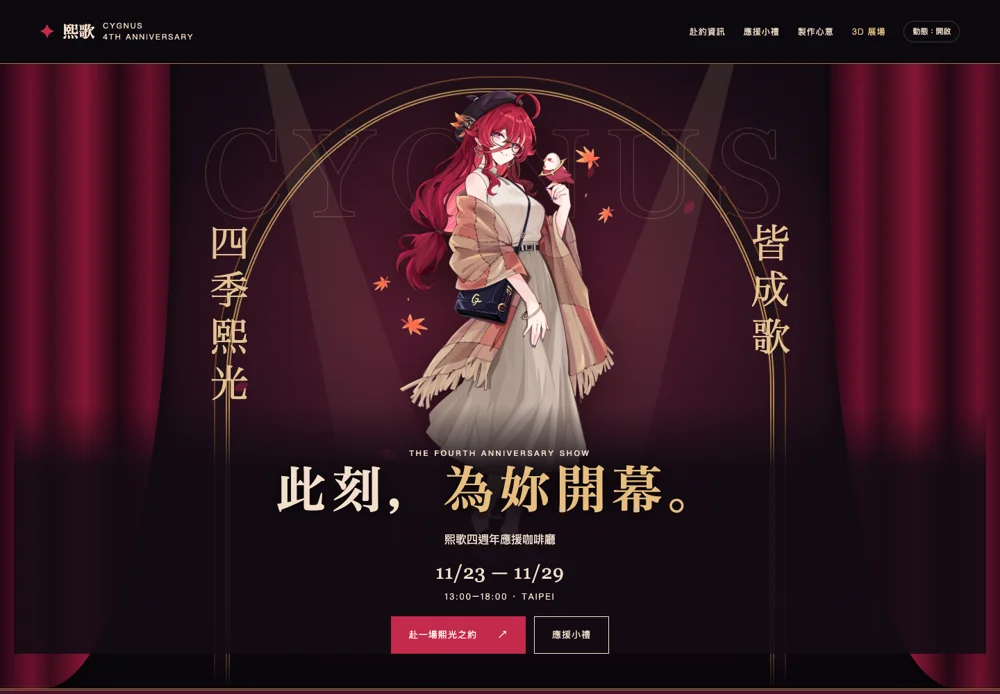
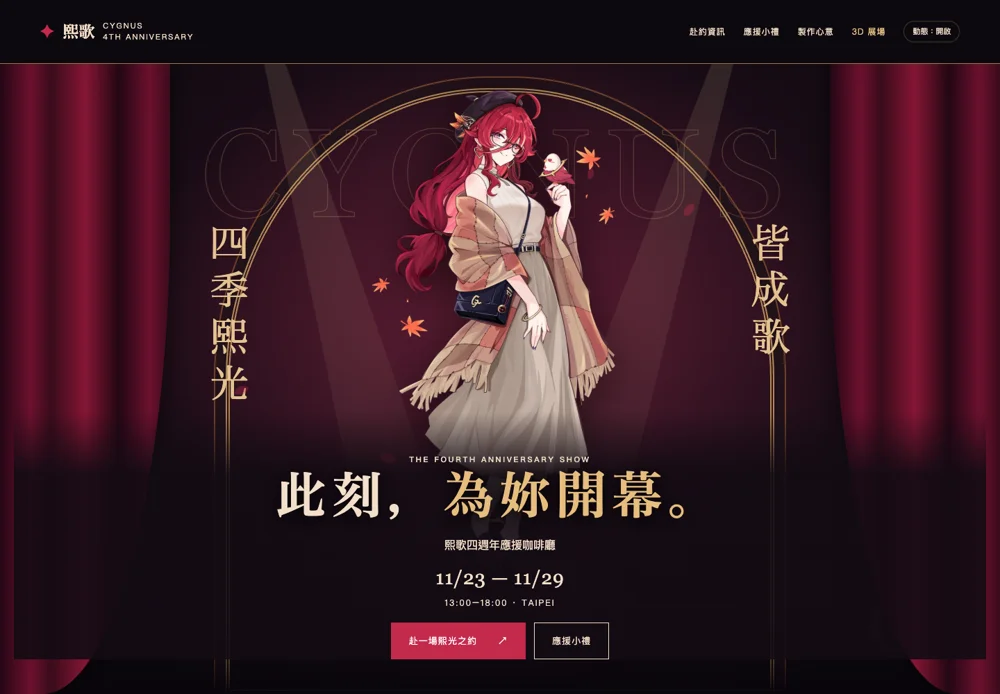
feat: 調整首屏高度與捲動固定導覽並隱藏設計總覽入口

diff --git a/index.html b/index.html
@@ -1,1 +1,1 @@
-<!doctype html><html lang="zh-Hant"><head><meta charset="utf-8"><meta name="viewport" content="width=device-width,initial-scale=1"><meta name="description" content="熙歌四週年應援咖啡廳，11/23–11/29，Little Donkey Cafe 小驢館。#四季熙光皆成歌"><meta name="theme-color" content="#130b13"><title>熙歌四週年｜緋幕手帖</title><link rel="stylesheet" href="shared/base.css"><link rel="stylesheet" href="versions/11-theatre-scrapbook/style.css"></head><body data-version="11"><a class="skip" href="#main">跳至主要內容</a><header class="site-header"><a class="brand" href="#main" aria-label="熙歌四週年首頁"><span class="brand-mark" aria-hidden="true">✦</span><b>熙歌</b><em>CYGNUS<br>4TH ANNIVERSARY</em></a><nav aria-label="主要導覽"><a href="#event">赴約資訊</a><a href="#gifts">應援小禮</a><a href="#credits">製作心意</a><a class="exhibition-link" href="cafe/">3D 展場</a><button class="motion-toggle" type="button" aria-pressed="true">動態：開啟</button></nav></header><main id="main"><section class="hero"><div class="stage-arch ornament"></div><div class="curtain left ornament"></div><div class="curtain right ornament"></div><div class="spot spot-a ornament"></div><div class="spot spot-b ornament"></div><div class="stage-word ornament">CYGNUS</div><div class="stage-side left-type">四季熙光</div><div class="stage-side right-type">皆成歌</div><figure class="stage-character" data-parallax="-55"><img class="" src="assets/web/portrait.webp" alt="熙歌秋日服裝全身立繪" fetchpriority="high" width="980" height="1400"></figure><div class="hero-copy"><span class="eyebrow">THE FOURTH ANNIVERSARY SHOW</span><h1>此刻，<em>為妳開幕。</em></h1><p>熙歌四週年應援咖啡廳</p><div class="hero-date">11/23 <span>—</span> 11/29<small>13:00–18:00 · TAIPEI</small></div><div class="hero-actions"><a class="button solid" href="#event">赴一場熙光之約 <span>↗</span></a><a class="button" href="#gifts">應援小禮</a></div></div><div class="stage-floor ornament"></div><div class="stage-number ornament">04</div><div class="petals" aria-hidden="true"><i class="petal" style="--x:3%;--size:8px"></i><i class="petal" style="--x:14%;--size:12px"></i><i class="petal" style="--x:25%;--size:16px"></i><i class="petal" style="--x:36%;--size:20px"></i><i class="petal" style="--x:47%;--size:8px"></i><i class="petal" style="--x:58%;--size:12px"></i><i class="petal" style="--x:69%;--size:16px"></i></div></section><div class="marquee" aria-hidden="true"><div class="marquee-track"><span>♡ 把喜歡貼進日常 ♡ FOUR SEASONS WITH CYGNUS ♡</span><span>♡ 把喜歡貼進日常 ♡ FOUR SEASONS WITH CYGNUS ♡</span><span>♡ 把喜歡貼進日常 ♡ FOUR SEASONS WITH CYGNUS ♡</span><span>♡ 把喜歡貼進日常 ♡ FOUR SEASONS WITH CYGNUS ♡</span><span>♡ 把喜歡貼進日常 ♡ FOUR SEASONS WITH CYGNUS ♡</span><span>♡ 把喜歡貼進日常 ♡ FOUR SEASONS WITH CYGNUS ♡</span><span>♡ 把喜歡貼進日常 ♡ FOUR SEASONS WITH CYGNUS ♡</span><span>♡ 把喜歡貼進日常 ♡ FOUR SEASONS WITH CYGNUS ♡</span></div></div><section class="section event" id="event"><div class="section-heading" data-reveal><span class="eyebrow">OUR ANNIVERSARY RENDEZVOUS</span><h2>這一頁，<br class="mobile-break">記得留給熙歌。</h2></div><div class="event-grid"><dl class="event-facts" data-reveal><div class="fact"><dt>活動名稱</dt><dd>熙歌四週年應援咖啡廳</dd></div><div class="fact"><dt>活動日期</dt><dd><strong>11/23 — 11/29</strong></dd></div><div class="fact"><dt>營業時間</dt><dd><strong>13:00 — 18:00</strong><small>下午 1 點至 6 點</small></dd></div><div class="fact"><dt>活動店家</dt><dd>Little Donkey Cafe 小驢館</dd></div><div class="fact"><dt>入店低消</dt><dd>飲品／甜品 擇一</dd></div></dl><aside class="access" data-reveal><span class="eyebrow">FIND YOUR WAY</span><h3>在巷弄裡，找到熙光。</h3><p>106臺北市大安區敦煌里<br>信義路四段265巷12弄21號</p><div class="route-line"><span class="station">M</span><span>捷運信義安和站</span><span class="route-dots"></span><span>步行 5 分鐘</span></div><a class="button" href="https://www.google.com/maps/search/?api=1&query=106臺北市大安區敦煌里信義路四段265巷12弄21號" target="_blank" rel="noopener noreferrer">開啟地圖 <span>↗</span></a></aside></div><aside class="exhibition-invite" data-reveal><a class="exhibition-photo" href="cafe/" aria-label="進入小驢館 3D 展場"><img src="cafe/assets/preview.webp" alt="小驢館空間模型：窗邊座位、中央長桌與後方投影幕。" loading="lazy" width="1400" height="1100"><span>一張照片，走進一個空間。</span></a><div class="exhibition-copy"><span class="exhibition-stamp">赴約前的小旅行</span><h3>先走進，<br>我們相遇的地方。</h3><p>從窗邊到中央長桌，換個角度看看小驢館。獨立的 3D 展場提供旋轉、縮放與五種空間視角。</p><a class="button solid" href="cafe/">進入 3D 展場 <span aria-hidden="true">↗</span></a><small>公開照片重建草案，配置與尺寸尚未經現場確認。</small></div></aside></section><section class="section story" id="story"><div class="story-album"><figure class="story-snapshot" data-reveal><img src="assets/web/keyvisual.webp" alt="熙歌戴著眼鏡，在咖啡廳端起咖啡的活動主視覺" loading="lazy" width="2000" height="1403"><figcaption>一杯咖啡，收藏四季的熙光。</figcaption></figure><figure class="story-photo" data-reveal><img class="" src="assets/web/picnic.webp" alt="熙歌四週年活動插畫" loading="lazy" width="2000" height="710"><figcaption>將這個午後，妥善收藏。</figcaption></figure></div><div class="story-text" data-reveal><span class="eyebrow">FOR CYGNUS · WITH LOVE</span><h2>把今天，<br>貼在最喜歡的那頁。</h2><p>四季走過，喜歡依然。<br>在一個有咖啡香的午後，<br>和同樣喜歡熙歌的你，<br>一起為這段四週年的旅程留下紀念。</p><p class="signature">Every season, a song.</p><div class="program"><span>現場周邊發放</span><span>投影機播放</span><span>過往場次周邊擺設</span></div></div></section><section class="section gifts" id="gifts"><div class="section-heading" data-reveal><span class="eyebrow">LITTLE GIFTS, LOTS OF LOVE</span><h2>手帳裡的小小收藏。</h2></div><div class="gifts-layout"><figure class="gifts-mascot" data-reveal><img class="" src="assets/web/chibi-autumn.webp" alt="熙歌四週年 Q 版插畫" loading="lazy" width="650" height="650"><figcaption>四週年限定的心意</figcaption></figure><div><div class="gift-rules"><article class="gift-rule" data-reveal><span class="eyebrow">PAPER GIFTS</span><h3>紙類周邊</h3><div class="quantity">200<span>各品項數量</span></div><p>拿取資格：不限</p></article><article class="gift-rule" data-reveal><span class="eyebrow">SPECIAL GIFTS</span><h3>非紙類周邊</h3><div class="quantity">80<span>各品項數量</span></div><p>拿取資格：訂閱熙歌 YT 頻道</p><a class="text-link" href="https://youtube.com/@cygnusxdfp" target="_blank" rel="noopener noreferrer">前往熙歌 YouTube ↗</a></article></div><p class="pending">周邊照片將於後續公布。此處角色插畫為活動視覺，並非周邊商品照片。</p></div></div></section><section class="section reminders"><div class="faq"><div class="section-heading" data-reveal><span class="eyebrow">BEFORE WE MEET</span><h2>赴約前的小提醒</h2></div><details><summary>需要符合什麼低消？</summary><p>飲品／甜品擇一，即為本次提供的入店低消資訊。</p></details><details><summary>現場有哪些應援安排？</summary><p>現場將發放周邊，使用投影機播放內容，並擺設過往熙歌場次的周邊。</p></details><details><summary>周邊要如何拿取？</summary><p>紙類拿取資格不限，各品項數量 200；非紙類需訂閱熙歌 YouTube 頻道，各品項數量 80。周邊照片後續公布。</p></details></div></section><section class="section credits" id="credits"><div data-reveal><span class="eyebrow">MADE POSSIBLE WITH LOVE</span><h2>一起，讓熙光成歌。</h2><p>工作人員與繪師的完整名單將於後續公布。<br>謝謝每一份讓這場相遇成真的心意。</p></div><div class="socials" data-reveal><a href="https://x.com/cyg_studio_fan" target="_blank" rel="noopener noreferrer">應援工作室 X ↗</a><a href="https://x.com/cygnusxdfp" target="_blank" rel="noopener noreferrer">熙歌 X ↗</a><a href="https://youtube.com/@cygnusxdfp" target="_blank" rel="noopener noreferrer">熙歌 YouTube ↗</a></div></section><section class="closing"><p class="closing-title">下一個四季，<br>也想和你一起。</p><p class="tag">#四季熙光皆成歌</p><button class="copy-tag" type="button">複製活動 TAG</button><p class="status-message" role="status" aria-live="polite"></p></section><footer class="site-footer"><span>CYGNUS 4TH ANNIVERSARY · 熙歌四週年應援咖啡廳</span><a href="designs/">回到設計總覽 ↗</a></footer></main><script src="vendor/gsap.min.js"></script><script src="vendor/ScrollTrigger.min.js"></script><script type="module" src="versions/11-theatre-scrapbook/script.js"></script></body></html>
+<!doctype html><html lang="zh-Hant"><head><meta charset="utf-8"><meta name="viewport" content="width=device-width,initial-scale=1"><meta name="description" content="熙歌四週年應援咖啡廳，11/23–11/29，Little Donkey Cafe 小驢館。#四季熙光皆成歌"><meta name="theme-color" content="#130b13"><title>熙歌四週年｜緋幕手帖</title><link rel="stylesheet" href="shared/base.css"><link rel="stylesheet" href="versions/11-theatre-scrapbook/style.css"></head><body data-version="11"><a class="skip" href="#main">跳至主要內容</a><div class="header-slot"><header class="site-header"><a class="brand" href="#main" aria-label="熙歌四週年首頁"><span class="brand-mark" aria-hidden="true">✦</span><b>熙歌</b><em>CYGNUS<br>4TH ANNIVERSARY</em></a><nav aria-label="主要導覽"><a href="#event">赴約資訊</a><a href="#gifts">應援小禮</a><a href="#credits">製作心意</a><a class="exhibition-link" href="cafe/">3D 展場</a><button class="motion-toggle" type="button" aria-pressed="true">動態：開啟</button></nav></header></div><main id="main"><section class="hero"><div class="stage-arch ornament"></div><div class="curtain left ornament"></div><div class="curtain right ornament"></div><div class="spot spot-a ornament"></div><div class="spot spot-b ornament"></div><div class="stage-word ornament">CYGNUS</div><div class="stage-side left-type">四季熙光</div><div class="stage-side right-type">皆成歌</div><figure class="stage-character" data-parallax="-55"><img class="" src="assets/web/portrait.webp" alt="熙歌秋日服裝全身立繪" fetchpriority="high" width="980" height="1400"></figure><div class="hero-copy"><span class="eyebrow">THE FOURTH ANNIVERSARY SHOW</span><h1>此刻，<em>為妳開幕。</em></h1><p>熙歌四週年應援咖啡廳</p><div class="hero-date">11/23 <span>—</span> 11/29<small>13:00–18:00 · TAIPEI</small></div><div class="hero-actions"><a class="button solid" href="#event">赴一場熙光之約 <span>↗</span></a><a class="button" href="#gifts">應援小禮</a></div></div><div class="stage-floor ornament"></div><div class="stage-number ornament">04</div><div class="petals" aria-hidden="true"><i class="petal" style="--x:3%;--size:8px"></i><i class="petal" style="--x:14%;--size:12px"></i><i class="petal" style="--x:25%;--size:16px"></i><i class="petal" style="--x:36%;--size:20px"></i><i class="petal" style="--x:47%;--size:8px"></i><i class="petal" style="--x:58%;--size:12px"></i><i class="petal" style="--x:69%;--size:16px"></i></div></section><div class="marquee" aria-hidden="true"><div class="marquee-track"><span>♡ 把喜歡貼進日常 ♡ FOUR SEASONS WITH CYGNUS ♡</span><span>♡ 把喜歡貼進日常 ♡ FOUR SEASONS WITH CYGNUS ♡</span><span>♡ 把喜歡貼進日常 ♡ FOUR SEASONS WITH CYGNUS ♡</span><span>♡ 把喜歡貼進日常 ♡ FOUR SEASONS WITH CYGNUS ♡</span><span>♡ 把喜歡貼進日常 ♡ FOUR SEASONS WITH CYGNUS ♡</span><span>♡ 把喜歡貼進日常 ♡ FOUR SEASONS WITH CYGNUS ♡</span><span>♡ 把喜歡貼進日常 ♡ FOUR SEASONS WITH CYGNUS ♡</span><span>♡ 把喜歡貼進日常 ♡ FOUR SEASONS WITH CYGNUS ♡</span></div></div><section class="section event" id="event"><div class="section-heading" data-reveal><span class="eyebrow">OUR ANNIVERSARY RENDEZVOUS</span><h2>這一頁，<br class="mobile-break">記得留給熙歌。</h2></div><div class="event-grid"><dl class="event-facts" data-reveal><div class="fact"><dt>活動名稱</dt><dd>熙歌四週年應援咖啡廳</dd></div><div class="fact"><dt>活動日期</dt><dd><strong>11/23 — 11/29</strong></dd></div><div class="fact"><dt>營業時間</dt><dd><strong>13:00 — 18:00</strong><small>下午 1 點至 6 點</small></dd></div><div class="fact"><dt>活動店家</dt><dd>Little Donkey Cafe 小驢館</dd></div><div class="fact"><dt>入店低消</dt><dd>飲品／甜品 擇一</dd></div></dl><aside class="access" data-reveal><span class="eyebrow">FIND YOUR WAY</span><h3>在巷弄裡，找到熙光。</h3><p>106臺北市大安區敦煌里<br>信義路四段265巷12弄21號</p><div class="route-line"><span class="station">M</span><span>捷運信義安和站</span><span class="route-dots"></span><span>步行 5 分鐘</span></div><a class="button" href="https://www.google.com/maps/search/?api=1&query=106臺北市大安區敦煌里信義路四段265巷12弄21號" target="_blank" rel="noopener noreferrer">開啟地圖 <span>↗</span></a></aside></div><aside class="exhibition-invite" data-reveal><a class="exhibition-photo" href="cafe/" aria-label="進入小驢館 3D 展場"><img src="cafe/assets/preview.webp" alt="小驢館空間模型：窗邊座位、中央長桌與後方投影幕。" loading="lazy" width="1400" height="1100"><span>一張照片，走進一個空間。</span></a><div class="exhibition-copy"><span class="exhibition-stamp">赴約前的小旅行</span><h3>先走進，<br>我們相遇的地方。</h3><p>從窗邊到中央長桌，換個角度看看小驢館。獨立的 3D 展場提供旋轉、縮放與五種空間視角。</p><a class="button solid" href="cafe/">進入 3D 展場 <span aria-hidden="true">↗</span></a><small>公開照片重建草案，配置與尺寸尚未經現場確認。</small></div></aside></section><section class="section story" id="story"><div class="story-album"><figure class="story-snapshot" data-reveal><img src="assets/web/keyvisual.webp" alt="熙歌戴著眼鏡，在咖啡廳端起咖啡的活動主視覺" loading="lazy" width="2000" height="1403"><figcaption>一杯咖啡，收藏四季的熙光。</figcaption></figure><figure class="story-photo" data-reveal><img class="" src="assets/web/picnic.webp" alt="熙歌四週年活動插畫" loading="lazy" width="2000" height="710"><figcaption>將這個午後，妥善收藏。</figcaption></figure></div><div class="story-text" data-reveal><span class="eyebrow">FOR CYGNUS · WITH LOVE</span><h2>把今天，<br>貼在最喜歡的那頁。</h2><p>四季走過，喜歡依然。<br>在一個有咖啡香的午後，<br>和同樣喜歡熙歌的你，<br>一起為這段四週年的旅程留下紀念。</p><p class="signature">Every season, a song.</p><div class="program"><span>現場周邊發放</span><span>投影機播放</span><span>過往場次周邊擺設</span></div></div></section><section class="section gifts" id="gifts"><div class="section-heading" data-reveal><span class="eyebrow">LITTLE GIFTS, LOTS OF LOVE</span><h2>手帳裡的小小收藏。</h2></div><div class="gifts-layout"><figure class="gifts-mascot" data-reveal><img class="" src="assets/web/chibi-autumn.webp" alt="熙歌四週年 Q 版插畫" loading="lazy" width="650" height="650"><figcaption>四週年限定的心意</figcaption></figure><div><div class="gift-rules"><article class="gift-rule" data-reveal><span class="eyebrow">PAPER GIFTS</span><h3>紙類周邊</h3><div class="quantity">200<span>各品項數量</span></div><p>拿取資格：不限</p></article><article class="gift-rule" data-reveal><span class="eyebrow">SPECIAL GIFTS</span><h3>非紙類周邊</h3><div class="quantity">80<span>各品項數量</span></div><p>拿取資格：訂閱熙歌 YT 頻道</p><a class="text-link" href="https://youtube.com/@cygnusxdfp" target="_blank" rel="noopener noreferrer">前往熙歌 YouTube ↗</a></article></div><p class="pending">周邊照片將於後續公布。此處角色插畫為活動視覺，並非周邊商品照片。</p></div></div></section><section class="section reminders"><div class="faq"><div class="section-heading" data-reveal><span class="eyebrow">BEFORE WE MEET</span><h2>赴約前的小提醒</h2></div><details><summary>需要符合什麼低消？</summary><p>飲品／甜品擇一，即為本次提供的入店低消資訊。</p></details><details><summary>現場有哪些應援安排？</summary><p>現場將發放周邊，使用投影機播放內容，並擺設過往熙歌場次的周邊。</p></details><details><summary>周邊要如何拿取？</summary><p>紙類拿取資格不限，各品項數量 200；非紙類需訂閱熙歌 YouTube 頻道，各品項數量 80。周邊照片後續公布。</p></details></div></section><section class="section credits" id="credits"><div data-reveal><span class="eyebrow">MADE POSSIBLE WITH LOVE</span><h2>一起，讓熙光成歌。</h2><p>工作人員與繪師的完整名單將於後續公布。<br>謝謝每一份讓這場相遇成真的心意。</p></div><div class="socials" data-reveal><a href="https://x.com/cyg_studio_fan" target="_blank" rel="noopener noreferrer">應援工作室 X ↗</a><a href="https://x.com/cygnusxdfp" target="_blank" rel="noopener noreferrer">熙歌 X ↗</a><a href="https://youtube.com/@cygnusxdfp" target="_blank" rel="noopener noreferrer">熙歌 YouTube ↗</a></div></section><section class="closing"><p class="closing-title">下一個四季，<br>也想和你一起。</p><p class="tag">#四季熙光皆成歌</p><button class="copy-tag" type="button">複製活動 TAG</button><p class="status-message" role="status" aria-live="polite"></p></section><footer class="site-footer"><span>CYGNUS 4TH ANNIVERSARY · 熙歌四週年應援咖啡廳</span></footer></main><script src="vendor/gsap.min.js"></script><script src="vendor/ScrollTrigger.min.js"></script><script type="module" src="versions/11-theatre-scrapbook/script.js"></script></body></html>

diff --git a/versions/11-theatre-scrapbook/style.css b/versions/11-theatre-scrapbook/style.css
@@ -13,9 +13,10 @@ body {
 .section-heading h2 { font-size: clamp(30px, 3.7vw, 52px); }
 .section h2, .access h3, .site-footer > span { text-wrap: balance; }
 .mobile-break { display: none; }
-.site-header{background:#0d090e;border-bottom:1px solid #9d7845}.hero{height:900px;display:flex;align-items:flex-end;justify-content:center;padding:0 20px 50px;background:radial-gradient(ellipse at 50% 40%,#6b203a 0,#190c16 52%,#0d0910 80%)}.hero-copy{text-align:center;background:linear-gradient(transparent,#130b13e8 25%);padding:60px 100px 0;width:100%}.hero h1{font-size:clamp(45px,5vw,74px);letter-spacing:.12em;text-shadow:0 3px 30px #000}.hero h1 em{font-style:normal;color:#e6bd7e}.hero-copy>p{margin:16px auto}.hero-date{font-size:28px}.hero-actions{justify-content:center;margin-top:20px}.stage-character{position:absolute;width:530px;height:740px;left:50%;transform:translateX(-50%);top:10px;z-index:3}.stage-character img{height:100%;width:100%;object-fit:contain;filter:drop-shadow(0 10px 35px #0009)}.stage-arch{position:absolute;width:790px;height:900px;border:6px double #b28a55;border-radius:48% 48% 0 0;top:35px;left:50%;transform:translateX(-50%);box-shadow:0 0 0 15px #211119,0 0 0 17px #71422a}.stage-word{position:absolute;top:55px;width:100%;text-align:center;font:clamp(65px,13vw,180px) Georgia;letter-spacing:.12em;-webkit-text-stroke:1px #ba886766;color:transparent}.stage-side{writing-mode:vertical-rl;position:absolute;top:230px;font:56px var(--serif);letter-spacing:.2em;color:#e4c391;z-index:4}.left-type{left:20%}.right-type{right:20%}.curtain{position:absolute;top:-2%;bottom:0;width:17%;background:repeating-linear-gradient(90deg,#240615,#6c112e 18%,#390b1b 30%,#851635 50%,#220712 70%);z-index:5;box-shadow:0 10px 35px #0008}.curtain.left{left:0;border-radius:0 0 75% 0}.curtain.right{right:0;border-radius:0 0 0 75%}.spot{position:absolute;top:-100px;width:160px;height:900px;background:linear-gradient(#ffdba521,transparent);transform-origin:top;z-index:2;pointer-events:none;clip-path:polygon(45% 0,55% 0,100% 100%,0 100%)}.spot-a{left:20%;transform:rotate(-25deg)}.spot-b{right:20%;transform:rotate(25deg)}.stage-number{position:absolute;bottom:30px;right:30px;font:140px Georgia;color:#b3865740}.stage-floor{position:absolute;bottom:0;left:0;width:100%;height:120px;background:linear-gradient(transparent,#09050b);z-index:2}
+.site-header{background:#0d090e;border-bottom:1px solid #9d7845}.hero{height:calc(100dvh - var(--header-height, 92px));min-height:640px;display:flex;align-items:flex-end;justify-content:center;padding:0 20px 50px;background:radial-gradient(ellipse at 50% 40%,#6b203a 0,#190c16 52%,#0d0910 80%)}.hero-copy{text-align:center;background:linear-gradient(transparent,#130b13e8 25%);padding:60px 100px 0;width:100%}.hero h1{font-size:clamp(45px,5vw,74px);letter-spacing:.12em;text-shadow:0 3px 30px #000}.hero h1 em{font-style:normal;color:#e6bd7e}.hero-copy>p{margin:16px auto}.hero-date{font-size:28px}.hero-actions{justify-content:center;margin-top:20px}.stage-character{position:absolute;width:min(60vw,680px);height:82%;max-height:900px;left:50%;transform:translateX(-50%);top:10px;z-index:3}.stage-character img{height:100%;width:100%;object-fit:contain;filter:drop-shadow(0 10px 35px #0009)}.stage-arch{position:absolute;width:790px;height:calc(100% - 35px);border:6px double #b28a55;border-radius:48% 48% 0 0;top:35px;left:50%;transform:translateX(-50%);box-shadow:0 0 0 15px #211119,0 0 0 17px #71422a}.stage-word{position:absolute;top:55px;width:100%;text-align:center;font:clamp(65px,13vw,180px) Georgia;letter-spacing:.12em;-webkit-text-stroke:1px #ba886766;color:transparent}.stage-side{writing-mode:vertical-rl;position:absolute;top:230px;font:56px var(--serif);letter-spacing:.2em;color:#e4c391;z-index:4}.left-type{left:20%}.right-type{right:20%}.curtain{position:absolute;top:-2%;bottom:0;width:17%;background:repeating-linear-gradient(90deg,#240615,#6c112e 18%,#390b1b 30%,#851635 50%,#220712 70%);z-index:5;box-shadow:0 10px 35px #0008}.curtain.left{left:0;border-radius:0 0 75% 0}.curtain.right{right:0;border-radius:0 0 0 75%}.spot{position:absolute;top:-100px;width:160px;height:120%;background:linear-gradient(#ffdba521,transparent);transform-origin:top;z-index:2;pointer-events:none;clip-path:polygon(45% 0,55% 0,100% 100%,0 100%)}.spot-a{left:20%;transform:rotate(-25deg)}.spot-b{right:20%;transform:rotate(25deg)}.stage-number{position:absolute;bottom:30px;right:30px;font:140px Georgia;color:#b3865740}.stage-floor{position:absolute;bottom:0;left:0;width:100%;height:120px;background:linear-gradient(transparent,#09050b);z-index:2}
 
 .site-header .exhibition-link { color: #f0c889; }
+.site-header nav a:nth-child(3) { display: block; }
 .marquee {
   color: #ead0a1;
   background: #481329;
@@ -170,7 +171,7 @@ body {
 .copy-tag:hover { background: #481329; }
 .status-message { margin-top: 10px !important; }
 .site-footer { background: #0d090e; color: #dbc6b4; border-color: #9d784566; }
-.site-footer a { flex-shrink: 0; font-size: 12px; }
+
 
 @media (min-width: 761px) and (max-width: 1050px) {
   .hero-copy { padding-inline: 30px; }
@@ -189,7 +190,7 @@ body {
   .gift-rule { padding: 26px 20px; }
   .credits { grid-template-columns: 1fr; gap: 28px; }
 }
-@media(max-width:760px){.hero{height:920px;padding:0 10px 30px}.stage-character{width:330px;height:580px;top:35px}.stage-arch{width:330px;height:850px;top:25px}.curtain{width:8%}.stage-side{top:150px;font-size:29px}.left-type{left:8%}.right-type{right:8%}.stage-word{top:60px;font-size:57px}.hero-copy{padding:40px 14px 0}.hero h1{font-size:35px}.hero h1 em{display:block;margin-top:15px}.hero-date{font-size:27px}.stage-number{font-size:100px;opacity:.3}.hero .eyebrow{font-size:8px;letter-spacing:.1em}.event-grid{grid-template-columns:1fr}}
+@media(max-width:760px){.hero{min-height:720px;padding:0 10px 24px}.stage-character{width:min(330px,92%);height:78%;max-height:580px;top:20px}.stage-arch{width:330px;height:calc(100% - 25px);top:25px}.curtain{width:8%}.stage-side{top:150px;font-size:29px}.left-type{left:8%}.right-type{right:8%}.stage-word{top:60px;font-size:57px}.hero-copy{padding:30px 14px 0}.hero h1{font-size:32px}.hero h1 em{display:block;margin-top:10px}.hero-date{font-size:27px}.stage-number{font-size:100px;opacity:.3}.hero .eyebrow{font-size:8px;letter-spacing:.1em}.event-grid{grid-template-columns:1fr}}
 
 @media (max-width: 760px) {
   .section { padding: 58px 26px; }
@@ -246,4 +247,32 @@ body {
   .story-text h2 { font-size: 24px; }
   .story-album figcaption { letter-spacing: 0; }
   .faq { padding-inline: 20px; }
+}
+
+/* Keep the expanded header's space when the compact navigation is fixed. */
+html { scroll-padding-top: calc(var(--compact-header-height, 72px) + 18px); }
+.header-slot { height: var(--header-height, 92px); }
+.site-header.is-compact {
+  position: fixed;
+  inset: 0 0 auto;
+  z-index: 50;
+  padding-block: 10px;
+  box-shadow: 0 8px 24px #09050b50;
+}
+.site-header.is-compact .brand { gap: 8px; }
+.site-header.is-compact .brand-mark { font-size: 18px; }
+.site-header.is-compact .brand b { font-size: 20px; }
+.site-header.is-compact .brand em { font-size: 9px; line-height: 1.4; }
+@media (max-width: 760px) {
+  .hero-copy > p { margin: 12px auto; }
+  .hero-actions .button { padding: 12px 14px; gap: 14px; font-size: 12px; }
+}
+@media (max-width: 600px) {
+  .header-slot { height: var(--header-height, 105px); }
+  .site-header.is-compact { padding: 8px 16px; }
+  .site-header.is-compact .brand b { font-size: 18px; }
+  .site-header.is-compact .brand-mark { font-size: 16px; }
+  .site-header.is-compact .brand em { display: none; }
+  .site-header.is-compact nav { margin-top: 6px; }
+  .site-header.is-compact .motion-toggle { top: 8px; }
 }

diff --git a/cafe/index.html b/cafe/index.html
@@ -39,7 +39,7 @@
       <div class="light-control"><label for="daylight">窗光</label><input id="daylight" type="range" min="0.4" max="1.4" step="0.1" value="1" disabled><span aria-hidden="true">☀</span></div>
       <label class="quality">畫質<select id="quality" disabled><option value="balanced">均衡</option><option value="light">省電</option></select></label>
     </section>
-    <footer><a href="../designs/">所有設計版本</a><p>臺北市大安區信義路四段 265 巷 12 弄 21 號</p><a href="assets/little-donkey.glb" download>下載模型 .glb</a><span id="model-status" role="status">準備模型中</span></footer>
+    <footer><p>臺北市大安區信義路四段 265 巷 12 弄 21 號</p><a href="assets/little-donkey.glb" download>下載模型 .glb</a><span id="model-status" role="status">準備模型中</span></footer>
   </main>
   <dialog id="research-dialog" aria-labelledby="research-title"><button id="close-research" class="dialog-close" aria-label="關閉研究說明">✕</button><p class="dialog-kicker">這個空間怎麼來的</p><h2 id="research-title">依據、推估，<br>與還沒看見的地方。</h2><p>這是照片參考建模草案。沒有實測平面圖，也沒有將照片直接掃描成精準模型。</p><div class="evidence-section"><h3>主要參考：場租空間照片</h3><p>中央長桌、右側木長凳與白磚半牆、左側黑窗框、後方投影幕與天花投影機，可在 ZAPX 場租照片中看到。網站圖片路徑為 2025/12，實際拍攝日期未知。</p><a href="https://zapx-group.com/zapx/event-spaces-and-venue-rental/" target="_blank" rel="noopener">查看場租來源 ↗</a></div><div class="evidence-section"><h3>歷史參考：吧台、入口與外廊</h3><p>這些區域依 2017–2018 年實拍補足，與較新主座位區的接合是推估。舊照的榻榻米與障子沒有混入新版座位區。</p><a href="https://immian.com/little-donkey/" target="_blank" rel="noopener">2018 年原作者照片 ↗</a><a href="https://alinalife.tw/little-donkey-coffee/" target="_blank" rel="noopener">2017 年原作者照片 ↗</a></div><div class="evidence-section"><h3>所有尺寸仍是推估</h3><p>房間長寬高、桌椅間距及數量未經丈量；洗手間與不可見後場沒有建立。場租佈置、家具及動線可能已變更。這份模型適合討論空間感，不能用來決定現場施工或容量。</p></div><a class="full-research" href="research.md" target="_blank" rel="noopener">閱讀完整研究紀錄 ↗</a></dialog>
   <script type="module" src="app.js"></script>

diff --git a/versions/11-theatre-scrapbook/script.js b/versions/11-theatre-scrapbook/script.js
@@ -1,2 +1,31 @@
 import { mountMotion } from '../../shared/motion.js';
+const header = document.querySelector('.site-header');
+const root = document.documentElement;
+let resizeFrame;
+
+function measureNavigation() {
+  const compact = header.classList.contains('is-compact');
+  header.classList.remove('is-compact');
+  root.style.setProperty('--header-height', `${header.getBoundingClientRect().height}px`);
+  header.classList.add('is-compact');
+  root.style.setProperty('--compact-header-height', `${header.getBoundingClientRect().height}px`);
+  header.classList.toggle('is-compact', compact);
+}
+
+function updateNavigation() {
+  // Hysteresis avoids switching repeatedly when scrolling around the boundary.
+  if (window.scrollY > 96) header.classList.add('is-compact');
+  else if (window.scrollY < 24) header.classList.remove('is-compact');
+}
+
+measureNavigation();
+updateNavigation();
+document.fonts.ready.then(measureNavigation);
+window.addEventListener('scroll', updateNavigation, { passive: true });
+window.addEventListener('pageshow', updateNavigation);
+window.addEventListener('resize', () => {
+  cancelAnimationFrame(resizeFrame);
+  resizeFrame = requestAnimationFrame(measureNavigation);
+});
+
 mountMotion({intro(tl){tl.from('.curtain.left',{xPercent:-35,duration:1.4}).from('.curtain.right',{xPercent:35,duration:1.4},0).from('.stage-character',{y:65,opacity:0,duration:1.5},.3).from('.stage-side',{y:40,opacity:0,stagger:.2},.4).from('.hero-copy > *',{y:25,opacity:0,stagger:.12},.7)},ambient(g){return [g.to('.spot-a',{rotation:18,duration:7,repeat:-1,yoyo:true,ease:'sine.inOut'}),g.to('.spot-b',{rotation:-18,duration:8,repeat:-1,yoyo:true,ease:'sine.inOut'})]}});

diff --git a/scripts/qa-combined.py b/scripts/qa-combined.py
@@ -11,15 +11,27 @@ def run(*args):
  r=json.loads(p.stdout);assert r.get('success'),r
  return r.get('data',{})
 def ev(js):return run('eval',js).get('result')
+def no_collection_link():
+ assert ev("[...document.querySelectorAll('a[href]')].every(a=>!new URL(a.href).pathname.endsWith('/designs/'))")
 run('set','viewport','1440','1000');run('open',base+'/')
 run('wait','--fn','window.__introDone===true')
 assert ev('location.href')==base+'/'
 assert ev('document.body.dataset.version')=='11'
+no_collection_link()
+expanded=ev("document.querySelector('.site-header').getBoundingClientRect().height")
+assert abs(ev("document.querySelector('.hero').getBoundingClientRect().bottom-innerHeight"))<1
+ev('window.scrollTo({top:240,behavior:"instant"})')
+run('wait','--fn','document.querySelector(".site-header").classList.contains("is-compact")')
+assert ev("getComputedStyle(document.querySelector('.site-header')).position==='fixed'&&document.querySelector('.site-header').getBoundingClientRect().top===0")
+assert ev("document.querySelector('.site-header').getBoundingClientRect().height")<expanded
+ev('window.scrollTo({top:0,behavior:"instant"})')
+run('wait','--fn','!document.querySelector(".site-header").classList.contains("is-compact")')
 assert not ev("performance.getEntriesByType('resource').some(r=>r.name.endsWith('.glb')||r.name.includes('/three/'))")
 assert ev("getComputedStyle(document.body).backgroundColor==='rgb(19, 11, 19)'&&getComputedStyle(document.querySelector('.event')).color==='rgb(66, 40, 34)'&&getComputedStyle(document.querySelector('.closing')).backgroundColor==='rgb(19, 11, 19)'&&getComputedStyle(document.querySelector('.site-header')).backgroundColor==='rgb(13, 9, 14)'")
 run('find','role','link','click','--name','進入 3D 展場','--exact')
 run('wait','--fn','window.__cafe?.ready===true')
 assert ev('location.pathname')==('/cyg-4th/cafe/' if remote else '/dist/cafe/')
+no_collection_link()
 model=ev('window.__cafe.snapshot()');assert model['modelBytes']==1861616 and model['meshes']==54
 run('click','[data-view="interior"]');ev('new Promise(r=>requestAnimationFrame(()=>requestAnimationFrame(r)))')
 assert ev('window.__cafe.snapshot().view')=='interior'
@@ -31,7 +43,8 @@ assert ev('innerWidth===document.documentElement.scrollWidth')
 run('find','role','link','click','--name','3D 展場','--exact');run('wait','--fn','window.__cafe?.ready===true')
 assert ev('innerWidth===document.documentElement.scrollWidth')
 run('find','role','link','click','--name','← 返回活動頁','--exact');run('wait','--fn','window.__introDone===true')
-run('find','role','link','click','--name','回到設計總覽 ↗','--exact');run('wait','--fn',"document.querySelectorAll('article').length===11")
+no_collection_link()
+run('open',base+'/designs/');run('wait','--fn',"document.querySelectorAll('article').length===11")
 assert ev('location.href')==base+'/designs/'
 assert ev('innerWidth===document.documentElement.scrollWidth')
 run('find','role','link','click','--name','緋夜劇場','--exact');run('wait','--fn','window.__introDone===true')
@@ -42,10 +55,11 @@ assert ev('location.href')==base+'/'
 run('open',base+'/versions/11-theatre-scrapbook/?from=legacy#event');run('wait','--fn','window.__introDone===true')
 assert ev('location.href')==base+'/?from=legacy#event'
 run('find','role','link','click','--name','3D 展場','--exact');run('wait','--fn','window.__cafe?.ready===true')
-run('find','role','link','click','--name','所有設計版本','--exact');run('wait','--fn',"document.querySelectorAll('article').length===11")
+no_collection_link()
+run('open',base+'/designs/');run('wait','--fn',"document.querySelectorAll('article').length===11")
 assert ev('location.href')==base+'/designs/'
 errors=run('errors');assert not errors.get('errors'),errors
-report={'status':'PASS','base':base,'styles':{'header':'02 crimson theatre','body':'theatre palette with paper collage','footer':'02 dark theatre'},'homepage':'11-theatre-scrapbook','collectionPath':'/designs/','legacyRedirectPreservesQueryAndHash':True,'collectionToExistingVersionAndBack':True,'cafeToCollection':True,'existingVersions':10,'totalVersions':11,'modelBytes':model['modelBytes'],'modelMeshes':model['meshes'],'landingDefers3DResources':True,'desktopInvitationTo3D':True,'mobileNavigationTo3D':True,'returnToActivity':True,'allVersionsAccessible':True,'pageErrors':errors.get('errors',[]),'notRun':['實體手機效能','使用者美術驗收']}
+report={'status':'PASS','base':base,'styles':{'header':'02 crimson theatre','body':'theatre palette with paper collage','footer':'02 dark theatre'},'homepage':'11-theatre-scrapbook','collectionPath':'/designs/','legacyRedirectPreservesQueryAndHash':True,'collectionToExistingVersionAndBack':True,'publicPagesHaveNoCollectionLinks':True,'collectionAccessibleByDirectURL':True,'existingVersions':10,'totalVersions':11,'modelBytes':model['modelBytes'],'modelMeshes':model['meshes'],'landingDefers3DResources':True,'desktopInvitationTo3D':True,'mobileNavigationTo3D':True,'returnToActivity':True,'allVersionsAccessible':True,'pageErrors':errors.get('errors',[]),'notRun':['實體手機效能','使用者美術驗收']}
 path=out/'remote-qa.json' if remote else root/'docs/combined-preview-qa.json'
 path.write_text(json.dumps(report,ensure_ascii=False,indent=2)+'\n')
 print(json.dumps(report,ensure_ascii=False,indent=2))

diff --git a/scripts/qa-header.py b/scripts/qa-header.py
@@ -1,0 +1,53 @@
+"""Verify viewport-sized stage, minimum height and compact navigation in Chromium."""
+import json, subprocess
+from pathlib import Path
+root=Path(__file__).resolve().parent.parent
+out=root/'artifacts/qa/11-theatre-scrapbook';out.mkdir(parents=True,exist_ok=True)
+def run(*args):
+ p=subprocess.run(['agent-browser','--session','cyg-header-viewport','--json',*args],capture_output=True,text=True)
+ assert p.returncode==0,p.stderr+p.stdout
+ r=json.loads(p.stdout);assert r.get('success'),r
+ return r.get('data',{})
+def ev(js):return run('eval',js).get('result')
+run('set','media','light','reduced-motion')
+results=[]
+for width,height in [(1440,900),(1440,1200),(1366,768),(1024,600),(844,390),(768,1024),(700,900),(390,844),(320,568)]:
+ run('set','viewport',str(width),str(height));run('open','http://127.0.0.1:4173/')
+ run('wait','--fn','window.__introDone===true&&document.querySelector(".stage-character img").complete')
+ ev('new Promise(r=>requestAnimationFrame(()=>requestAnimationFrame(r)))')
+ expanded=ev("""(() => {
+ const header=document.querySelector('.site-header').getBoundingClientRect(), hero=document.querySelector('.hero').getBoundingClientRect();
+ const image=document.querySelector('.stage-character img'), rect=image.getBoundingClientRect();
+ const paintedHeight=Math.min(rect.height,rect.width*image.naturalHeight/image.naturalWidth);
+ const faceBottom=rect.top+(rect.height-paintedHeight)/2+paintedHeight*.3;
+ return {width:innerWidth,height:innerHeight,headerHeight:header.height,heroHeight:hero.height,heroBottom:hero.bottom,
+  minHeight:parseFloat(getComputedStyle(document.querySelector('.hero')).minHeight),scrollWidth:document.documentElement.scrollWidth,
+  faceClear:document.querySelector('.hero h1').getBoundingClientRect().top>faceBottom,
+  contentContained:[...document.querySelectorAll('.hero-copy h1,.hero-copy .button')].every(e=>{const r=e.getBoundingClientRect();return r.left>=0&&r.right<=innerWidth&&r.top>=hero.top&&r.bottom<=hero.bottom;})};
+ })()""")
+ assert abs(expanded['heroBottom']-max(height,expanded['headerHeight']+expanded['minHeight']))<1,expanded
+ assert expanded['scrollWidth']==width and expanded['faceClear'] and expanded['contentContained'],expanded
+ run('screenshot',str(out/f'header-{width}x{height}.png'))
+ ev('window.scrollTo({top:240,behavior:"instant"})')
+ run('wait','--fn','document.querySelector(".site-header").classList.contains("is-compact")')
+ compact=ev("""(() => {const h=document.querySelector('.site-header'),r=h.getBoundingClientRect();return {top:r.top,height:r.height,position:getComputedStyle(h).position,heroDocumentBottom:document.querySelector('.hero').getBoundingClientRect().bottom+scrollY,links:[...h.querySelectorAll('a')].filter(a=>a.getClientRects().length).length};})()""")
+ assert compact['top']==0 and compact['position']=='fixed' and compact['height']<expanded['headerHeight'],compact
+ assert abs(compact['heroDocumentBottom']-expanded['heroBottom'])<1,compact
+ assert compact['links']==5,compact
+ run('click','.site-header a[href="#event"]')
+ run('wait','--fn','document.querySelector("#event").getBoundingClientRect().top>=document.querySelector(".site-header").getBoundingClientRect().bottom&&document.querySelector("#event").getBoundingClientRect().top<innerHeight/2')
+ run('screenshot',str(out/f'nav-{width}x{height}.png'))
+ ev('window.scrollTo({top:0,behavior:"instant"})')
+ run('wait','--fn','!document.querySelector(".site-header").classList.contains("is-compact")')
+ assert abs(ev('document.querySelector(".site-header").getBoundingClientRect().height')-expanded['headerHeight'])<1
+ results.append({'expanded':expanded,'compact':compact,'anchorClear':True,'restoredAtTop':True})
+ print(f'PASS {width}x{height}: viewport/min-height, compact nav, stable layout, anchor',flush=True)
+# Resize while fixed to exercise a two-row mobile header becoming one-row desktop.
+ev('window.scrollTo({top:240,behavior:"instant"})')
+run('wait','--fn','document.querySelector(".site-header").classList.contains("is-compact")')
+run('set','viewport','1440','900')
+run('wait','--fn','Math.abs(document.querySelector(".hero").getBoundingClientRect().height+document.querySelector(".header-slot").getBoundingClientRect().height-innerHeight)<1')
+assert ev('document.querySelector(".site-header").getBoundingClientRect().top')==0
+errors=run('errors').get('errors',[]);assert not errors,errors
+p=root/'versions/11-theatre-scrapbook/QA.json';report=json.loads(p.read_text());report['viewportHeader']={'status':'PASS','scenarios':results,'resizeWhileFixed':True,'pageErrors':errors};p.write_text(json.dumps(report,ensure_ascii=False,indent=2)+'\n')
+run('close')

diff --git a/scripts/qa-version.py b/scripts/qa-version.py
@@ -59,7 +59,7 @@ assert not errors.get('errors'),errors
 report={'status':'PASS','desktop':initial,'mobile':mobile,'images':images,'motionSample':motion,'pauseControl':paused,'reducedMotion':reduced,'copyTag':copy,'faqExpanded':faq,'pageErrors':errors.get('errors',[]),'notRun':['實體手機效能','外部網站內容驗收','使用者美術驗收']}
 report_path=root/'versions'/slug/'QA.json'
 previous=json.loads(report_path.read_text()) if report_path.exists() else {}
-for key in ['narrowScreen','carousel','responsiveLayout']:
+for key in ['narrowScreen','carousel','responsiveLayout','viewportHeader']:
  if key in previous:report[key]=previous[key]
 report_path.write_text(json.dumps(report,ensure_ascii=False,indent=2)+'\n')
 run('set','media','light')

diff --git a/versions/11-theatre-scrapbook/DESIGN.md b/versions/11-theatre-scrapbook/DESIGN.md
@@ -8,7 +8,7 @@
 
 ## 網站入口
 
-本版現為網站首頁 `/`，HTML 以根目錄 `index.html` 為準；本目錄保留樣式、動畫與設計說明。原本的版本網址保留轉址，查詢參數與錨點一併帶至首頁。所有 11 個版本收錄於獨立的 `/designs/`，3D 展場的返回活動連結指向首頁。
+本版現為網站首頁 `/`，HTML 以根目錄 `index.html` 為準；本目錄保留樣式、動畫與設計說明。原本的版本網址保留轉址，查詢參數與錨點一併帶至首頁。所有 11 個版本收錄於獨立的 `/designs/`，供內部直接開啟網址比較。首頁與 3D 展場不顯示設計總覽入口；3D 展場的返回活動連結指向首頁。
 
 ## 視覺規格
 
@@ -45,6 +45,10 @@
 插畫保留原始比例；秋日全景完整展示，避免裁掉角色臉部。所有圖片提供寬高以預留載入空間；中段圖片延遲載入。
 
 ## 動態與版面
+
+導覽列加上紅幕主視覺以 `100dvh` 作為首屏總高度；以實際量測的完整導覽高度扣除主視覺高度。主視覺本身最小高度為桌面 640px、手機 720px；矮視窗可自然捲動，不壓縮標題、日期與操作。角色、拱框與追光隨舞台高度調整。
+
+向下捲動超過 96px 時，導覽改成縮小版固定於頂部，回到距頁首 24px 內恢復完整版。原位置保留完整導覽高度，避免切換造成版面跳動。手機縮小品牌區，保留所有導覽連結與動態開關。段落錨點預留縮小導覽高度加 18px，不遮住標題；停用動畫時仍可使用固定導覽。
 
 保留 02 的紅幕、立繪、側標與標題出場時間軸，追光以 7／8 秒節奏往返。照片與紙張沿用現有進場效果。首屏離開可視區域時暫停環境動畫；動態開關及 `prefers-reduced-motion` 保留完整靜態構圖。
 

diff --git a/README.md b/README.md
@@ -6,7 +6,7 @@
 
 - [活動首頁：11 緋幕手帖](https://cygstudio.github.io/cyg-4th/)
 - [小驢館獨立 3D 展場](https://cygstudio.github.io/cyg-4th/cafe/)
-- [設計總覽：全部 11 個版本](https://cygstudio.github.io/cyg-4th/designs/)
+- [內部設計總覽：全部 11 個版本](https://cygstudio.github.io/cyg-4th/designs/)
 - [GitHub 儲存庫](https://github.com/CygStudio/cyg-4th)
 
 ## 本機預覽
@@ -75,7 +75,7 @@ python3 scripts/qa-delivery.py
 
 ## 小驢館 3D 空間手帖
 
-活動首頁 `/` 採用 11 緋幕手帖，HTML 位於根目錄 `index.html`，樣式與動畫仍位於 `versions/11-theatre-scrapbook/`。舊版網址 `/versions/11-theatre-scrapbook/` 保留轉址，並保留查詢參數與錨點。`/designs/` 為獨立設計總覽；從首頁導覽列或空間照片卡可進入 `/cafe/` 獨立展場。
+活動首頁 `/` 採用 11 緋幕手帖，HTML 位於根目錄 `index.html`，樣式與動畫仍位於 `versions/11-theatre-scrapbook/`。舊版網址 `/versions/11-theatre-scrapbook/` 保留轉址，並保留查詢參數與錨點。`/designs/` 為內部比較使用的獨立設計總覽，首頁及 3D 展場不提供入口連結；從首頁導覽列或空間照片卡可進入 `/cafe/` 獨立展場。
 
 開啟 `/cafe/`，使用五個視角、拖曳／雙指縮放、鍵盤方向鍵與縮放按鈕探索空間。Three.js 0.186.1 在瀏覽器套用三階賽璐璐明暗及幾何描邊；模型本身保留可攜的基礎色材質。GLB 不含 Blender 專用 Shader to RGB 節點，其他檢視器不會自動呈現相同賽璐璐效果。
 
@@ -105,4 +105,5 @@ node scripts/qa-cafe-touch.mjs http://127.0.0.1:4173/cafe/
 
 ```sh
 python3 scripts/qa-combined.py
+python3 scripts/qa-header.py
 ```

diff --git a/docs/art-direction-brief.md b/docs/art-direction-brief.md
@@ -10,7 +10,7 @@
 
 保留既有 01–10，新增 11 緋幕手帖：採 02 的導覽與紅幕首屏，接續 03 的其他內容。透過獨立 `cafe/` 頁面提供目前專案的小驢館 3D 展場，並建立 GitHub 儲存庫與 Pages 預覽。
 
-目前網站入口：以第 11 版為 `/` 首頁，全部版本保留於獨立 `/designs/` 設計總覽，`/cafe/` 為 3D 展場。
+目前網站入口：以第 11 版為 `/` 首頁，全部版本保留於獨立 `/designs/` 設計總覽，`/cafe/` 為 3D 展場。首頁與展場不提供設計總覽連結；總覽保留獨立網址供內部比較。首屏以導覽加主視覺共 `100dvh` 為主並設最小高度；向下捲動時導覽縮小並固定頂部。
 
 第 11 版後續調整：以紅黑劇場 header 統一全頁基調，中段保留相片、便箋與紙張的拼貼文青感；footer 參照 02 的深色謝幕與暖金題字。
 
